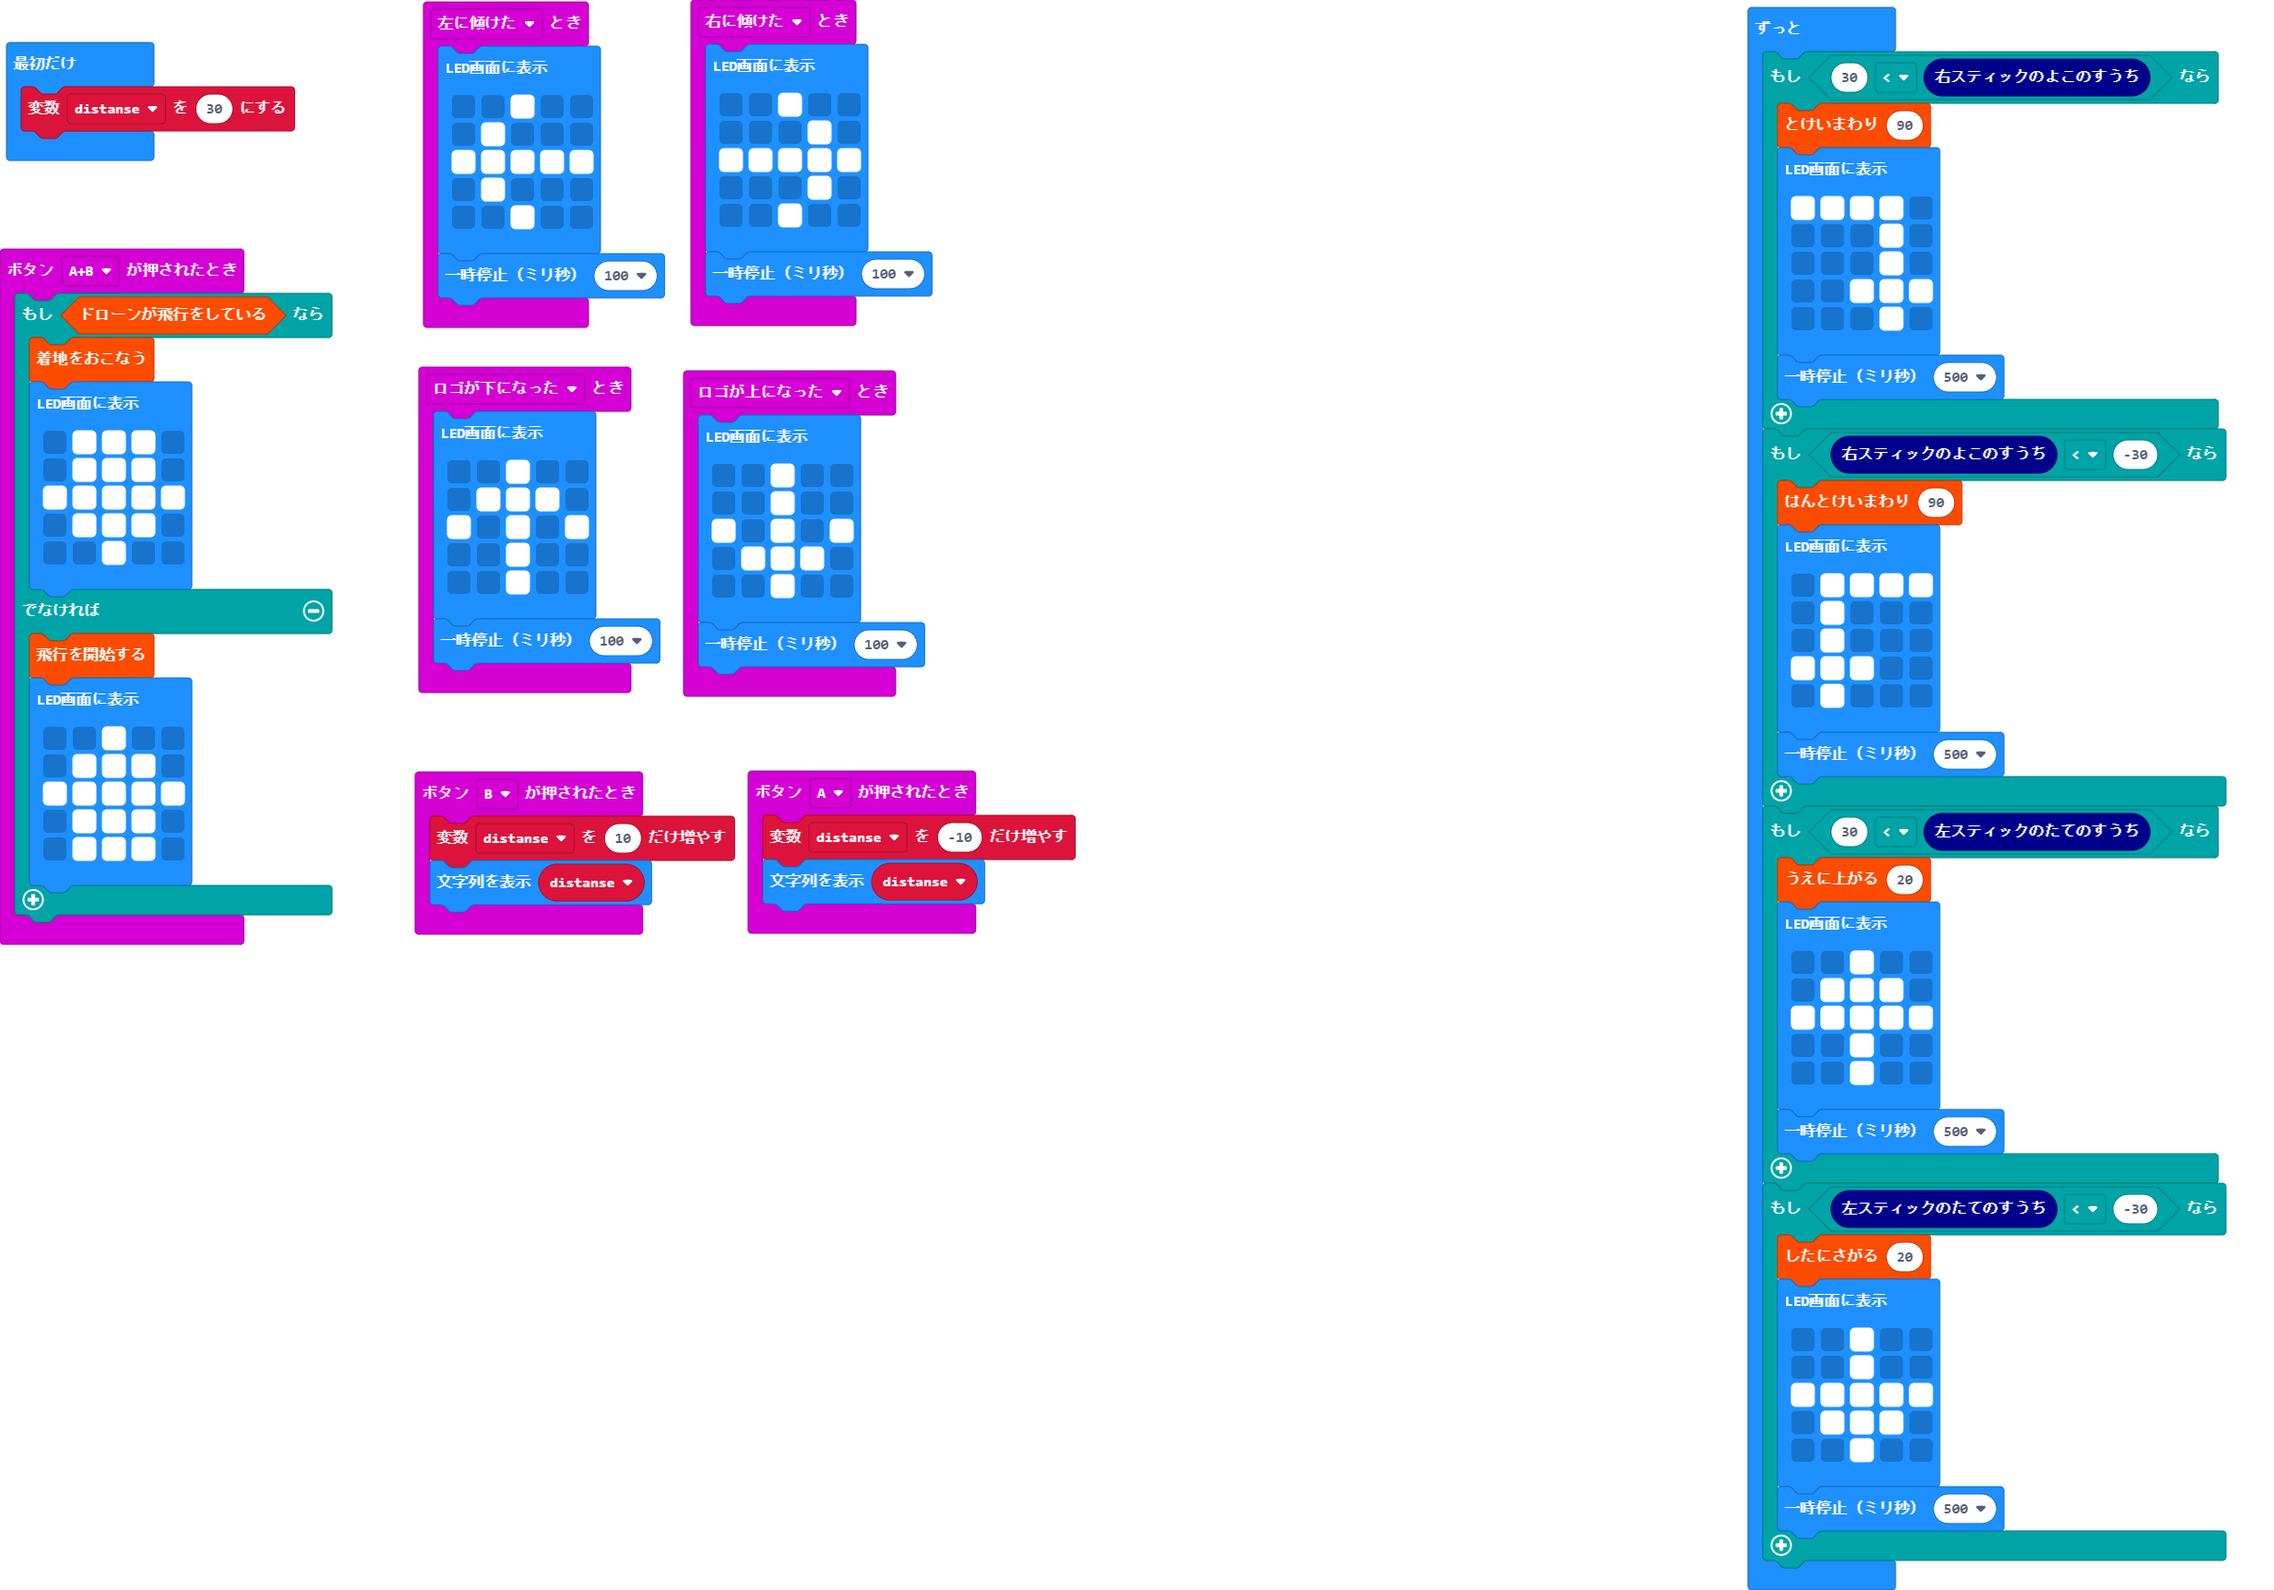
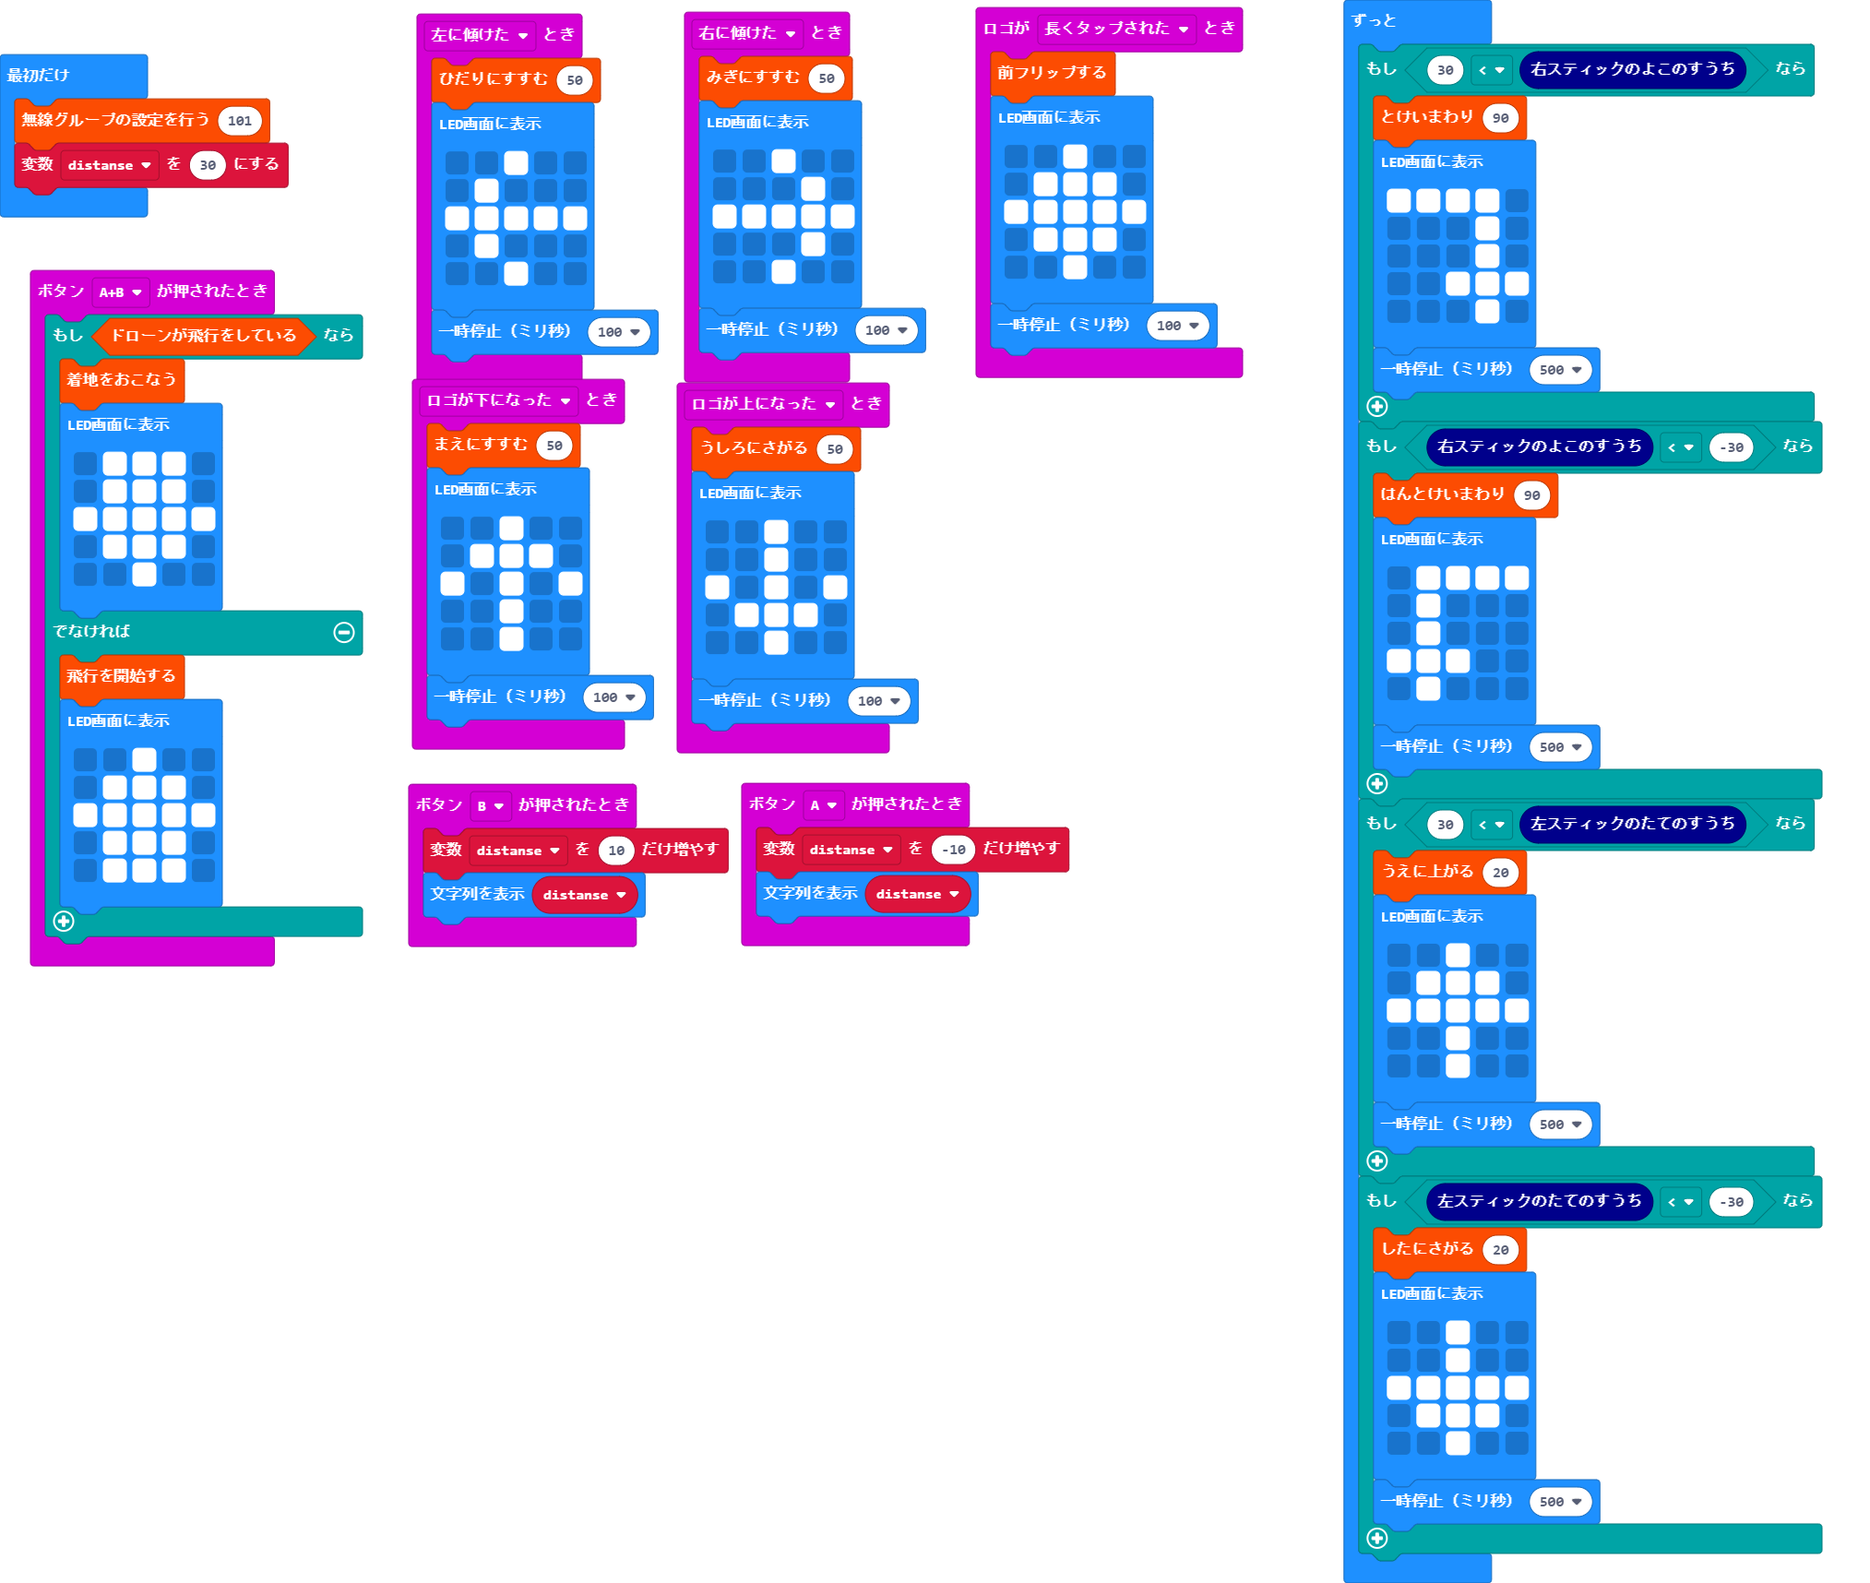
完成例

diff --git a/main.ts b/main.ts
@@ -1,4 +1,16 @@
+input.onLogoEvent(TouchButtonEvent.LongPressed, function () {
+    Tello.forward_flip()
+    basic.showLeds(`
+        . . # . .
+        . # # # .
+        # # # # #
+        . # # # .
+        . . # . .
+        `)
+    basic.pause(100)
+})
 input.onGesture(Gesture.TiltRight, function () {
+    Tello.right(50)
     basic.showLeds(`
         . . # . .
         . . . # .
@@ -7,13 +19,13 @@ input.onGesture(Gesture.TiltRight, function () {
         . . # . .
         `)
     basic.pause(100)
-    Tello.right(50)
 })
 input.onButtonPressed(Button.A, function () {
     distanse += -10
     basic.showString("" + (distanse))
 })
 input.onGesture(Gesture.TiltLeft, function () {
+    Tello.left(50)
     basic.showLeds(`
         . . # . .
         . # . . .
@@ -22,9 +34,9 @@ input.onGesture(Gesture.TiltLeft, function () {
         . . # . .
         `)
     basic.pause(100)
-    Tello.left(50)
 })
 input.onGesture(Gesture.LogoUp, function () {
+    Tello.back(50)
     basic.showLeds(`
         . . # . .
         . . # . .
@@ -33,9 +45,9 @@ input.onGesture(Gesture.LogoUp, function () {
         . . # . .
         `)
     basic.pause(100)
-    Tello.back(50)
 })
 input.onGesture(Gesture.LogoDown, function () {
+    Tello.forward(50)
     basic.showLeds(`
         . . # . .
         . # # # .
@@ -44,7 +56,6 @@ input.onGesture(Gesture.LogoDown, function () {
         . . # . .
         `)
     basic.pause(100)
-    Tello.forward(50)
 })
 input.onButtonPressed(Button.AB, function () {
     if (Tello.getflying()) {
@@ -72,8 +83,8 @@ input.onButtonPressed(Button.B, function () {
     basic.showString("" + (distanse))
 })
 let distanse = 0
+Tello.radiosetgroup(101)
 distanse = 30
-Tello.radiosetgroup(0)
 basic.forever(function () {
     if (30 < dronecontroller.getright_X()) {
         Tello.rotate_cw(90)
